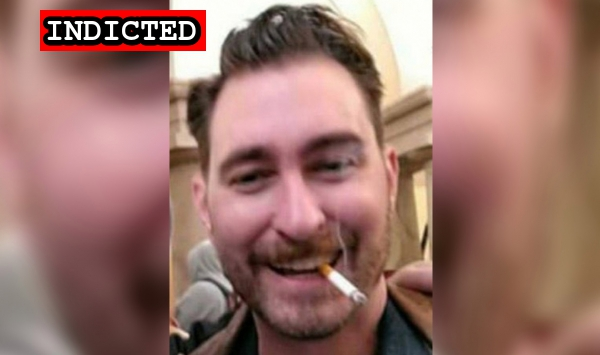
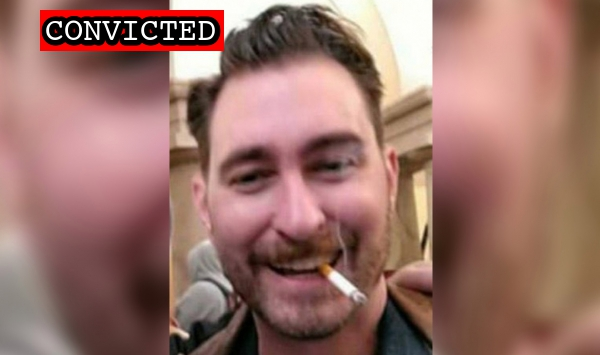
Ochas and DeCarlo convictions

Changed region(s): [[0.06, 0.031, 0.39, 0.1549]]

diff --git a/docs/_suspects/nicholas-ochs.md b/docs/_suspects/nicholas-ochs.md
@@ -4,15 +4,18 @@ lastName: Ochs
 hashtag: NickOchs
 aka:
 residence: Hawaii
-status: Indicted
+status: Convicted
 date: 2021-01-07
 charged: 2021-01-07
 indicted: 2021-02-03
-convicted:
+convicted: 2022-09-09
+acquitted:
 sentenced:
 dismissed:
 deceased:
 plea_hearing: 2022-09-09
+trial_date:
+trial_type:
 sentencing:
 age: 34
 occupation:
@@ -25,7 +28,7 @@ courtroom:
 courthouse:
 raid:
 perpwalk:
-quote:
+quote: "We're not supposed to be here, this is beyond the fence"
 title: Nicholas Ochs charged on January 7, 2021
 description: Click for latest case details. Suspects considered innocent until proven guilty.
 author: seditiontrack
@@ -34,6 +37,10 @@ published: true
 caseNumber: 1:21-cr-73
 videos:
 charges:
+  - code: 18 USC § 1512(c)(2)
+    title: Obstruction of an Official Proceeding
+    url: https://www.law.cornell.edu/uscode/text/18/1512
+    felony: true
 sentence:
 ---
 
@@ -42,4 +49,6 @@ sentence:
 - [Complaint](https://www.justice.gov/opa/page/file/1353336/download)
 - [Statement of Facts](https://www.justice.gov/opa/page/file/1353341/download)
 - [DOJ Press Release (Indictment)](https://www.justice.gov/usao-dc/pr/texas-man-self-proclaimed-leader-honolulu-proud-boys-now-indicted-federal-grand-jury)
-- [Indictment](https://www.justice.gov/usao-dc/press-release/file/1364371/download)
+- [Indictment](https://www.justice.gov/usao-dc/case-multi-defendant/file/1533911/download)
+- [Plea Agreement](https://www.justice.gov/usao-dc/case-multi-defendant/file/1533916/download)
+- [Statement of Offense](https://www.justice.gov/usao-dc/case-multi-defendant/file/1533921/download)

diff --git a/docs/_suspects/nicholas-decarlo.md b/docs/_suspects/nicholas-decarlo.md
@@ -4,15 +4,18 @@ lastName: DeCarlo
 hashtag: NicholasDeCarlo
 aka:
 residence: Texas
-status: Indicted
+status: Convicted
 date: 2021-01-19
 charged: 2021-01-19
 indicted: 2021-02-03
-convicted:
+convicted: 2022-09-09
+acquitted:
 sentenced:
 dismissed:
 deceased:
 plea_hearing: 2022-09-09
+trial_date:
+trial_type:
 sentencing:
 age: 30
 occupation:
@@ -34,6 +37,10 @@ published: true
 caseNumber: 1:21-cr-73
 videos:
 charges:
+  - code: 18 USC § 1512(c)(2)
+    title: Obstruction of an Official Proceeding
+    url: https://www.law.cornell.edu/uscode/text/18/1512
+    felony: true
 sentence:
 ---
 
@@ -42,4 +49,6 @@ sentence:
 - [Complaint](https://www.justice.gov/opa/page/file/1360496/download)
 - [Statement of Facts](https://www.justice.gov/opa/page/file/1360496/download)
 - [DOJ Press Release (Indictment)](https://www.justice.gov/usao-dc/pr/texas-man-self-proclaimed-leader-honolulu-proud-boys-now-indicted-federal-grand-jury)
-- [Indictment](https://www.justice.gov/usao-dc/case-multi-defendant/file/1366071/download)
+- [Indictment](https://www.justice.gov/usao-dc/case-multi-defendant/file/1533926/download)
+- [Plea Agreement](https://www.justice.gov/usao-dc/case-multi-defendant/file/1533931/download)
+- [Statement of Offense](https://www.justice.gov/usao-dc/case-multi-defendant/file/1533936/download)
